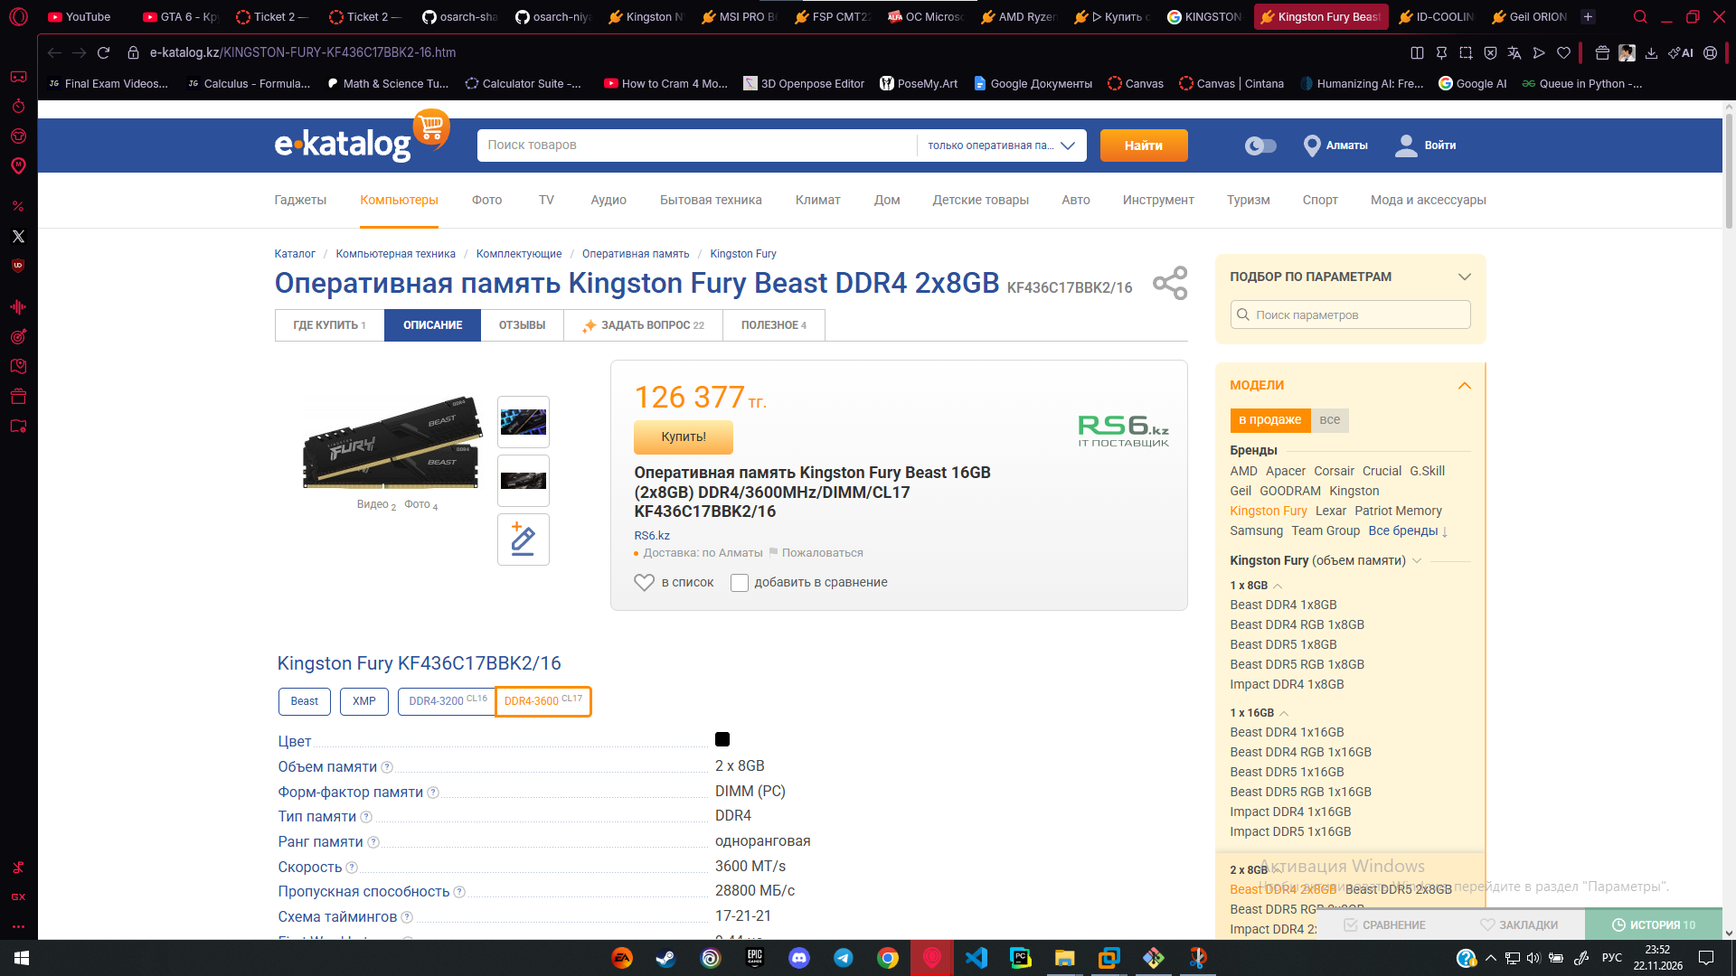
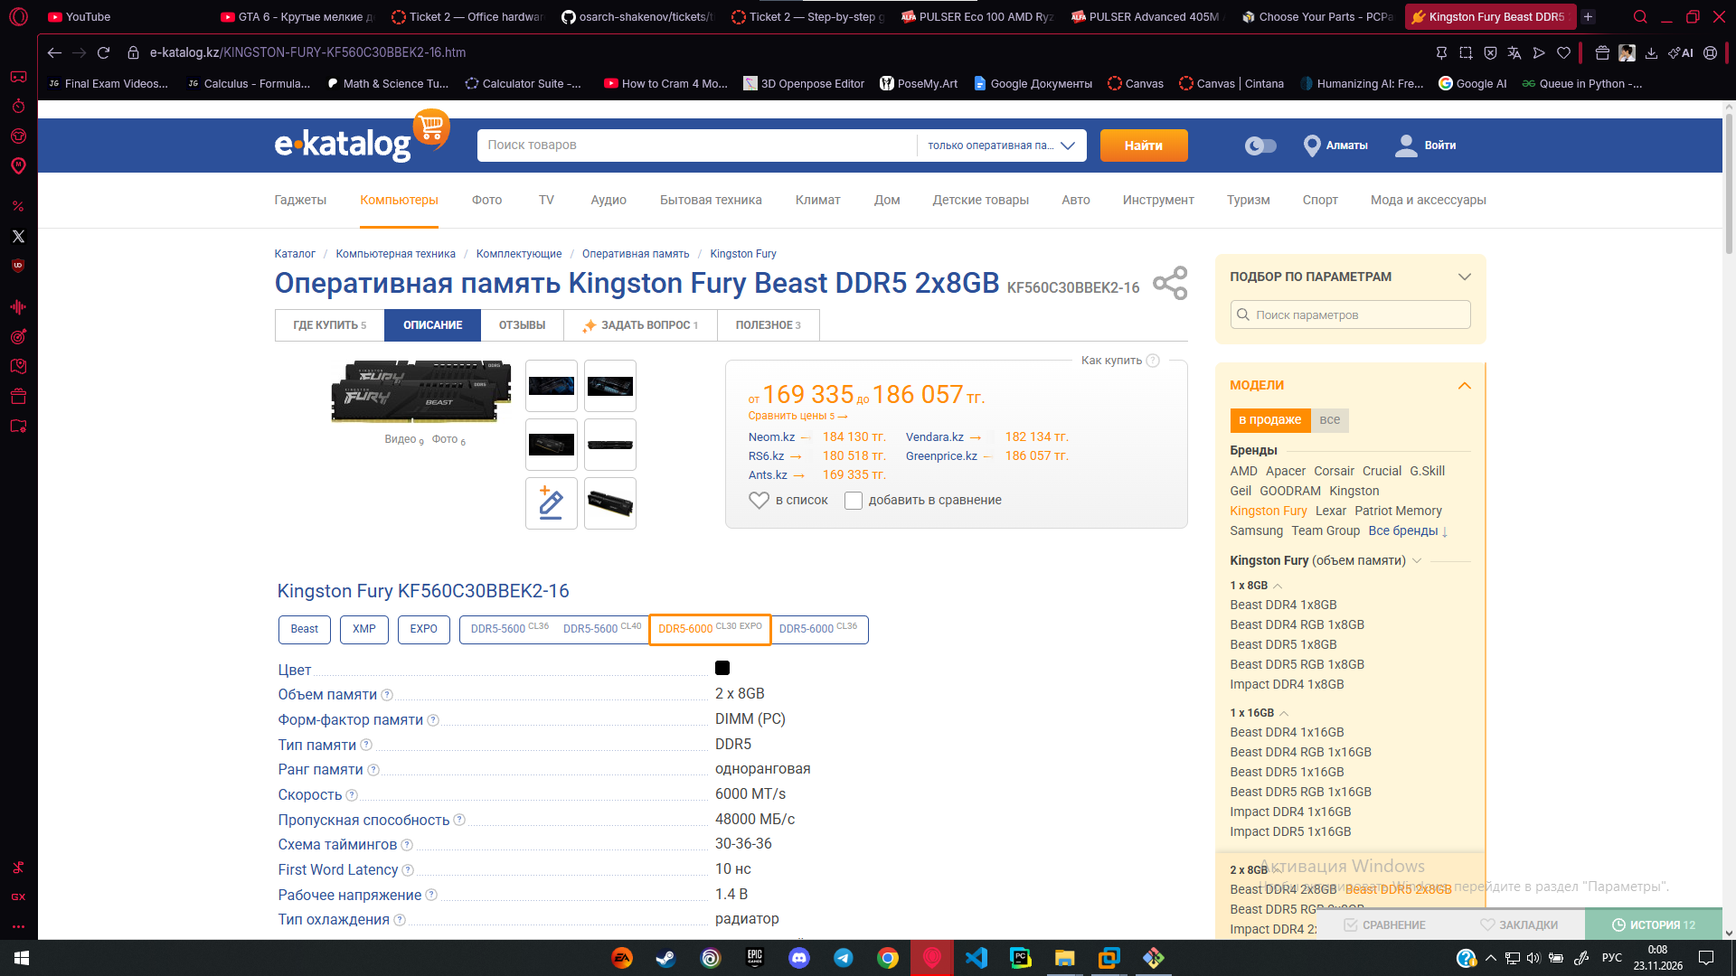
ticket 2 final

diff --git a/tickets/ticket2-office-spec/README.md b/tickets/ticket2-office-spec/README.md
@@ -42,38 +42,37 @@ One identical machine would be too weak for the developer and designer, and wast
 2. Checked compatibility as in Lab 3: CPU socket and board socket, memory type, M.2 slot and NVMe SSD, total power and power supply. PCPartPicker was used only for compatibility and power. It does not price in tenge.
 3. Took every price in tenge from a Kazakhstan vendor listing (mostly Flexcom.kz, found through the e-katalog.kz and alfa.kz price pages), with the date, and saved a dated screenshot (see [budget.csv](budget.csv)).
 4. Every machine has at least 16 GB memory, a 1 TB SSD, a licensed operating system and a monitor.
-5. The biggest finding was the price of memory: a 32 GB DDR5 kit (from 332 235 KZT) cost more than three Ryzen 5 7600 on the day I checked, so memory decisions decided the budget. The prices moved while I worked: my first 32 GB price was 230 168 KZT, and I had to rebuild the budget around the new one. The margin left is only 87 220 KZT.
+5. The biggest finding was the price of memory: a 32 GB DDR5 kit (from 289 119 KZT, Kingston from 332 235) cost almost three Ryzen 5 7600 on the day I checked, so memory decisions decided the budget. The prices moved while I worked: my first 32 GB price was 230 168 KZT, and I had to rebuild the budget around the new one. The margin left is only 87 536 KZT.
 
 **Totals (from budget.csv, prices taken 2026-11-22)**
 
 | Role | Total, KZT |
 |---|---|
-| Accountant | 556 841 |
-| Sales | 541 235 |
-| Web developer | 802 161 |
-| Designer | 1 012 543 |
-| **Grand total** | **2 912 780 (budget 3 000 000, margin 87 220)** |
+| Accountant | 599 799 |
+| Sales | 584 193 |
+| Web developer | 759 045 |
+| Designer | 969 427 |
+| **Grand total** | **2 912 464 (budget 3 000 000, margin 87 536)** |
 
 ### Answer 1: which machine do I upgrade first, in 18 months?
 
-Web developer, the memory. The board has four memory slots and only two are used, so I can add a second 2 x 16 GB kit and reach 64 GB without throwing anything away (a 32 GB kit now costs 332 235 KZT or more, so adding a second kit later is a real cost, but it needs no new board or CPU). Containers, virtual machines and a local database are the load that grows fastest, and on this machine memory is the first resource to run out. The AM5 platform and DDR5 chosen in section 2 are what make this a simple add-on.
+Web developer, the memory. The board has four memory slots and only two are used, so I can add a second 2 x 16 GB kit and reach 64 GB without throwing anything away (a 32 GB kit now costs 289 119 KZT or more, so adding a second kit later is a real cost, but it needs no new board or CPU). Containers, virtual machines and a local database are the load that grows fastest, and on this machine memory is the first resource to run out. The AM5 platform and DDR5 chosen in section 2 are what make this a simple add-on.
 
 ### Answer 2: the same four as pre-built machines
 
-I could not get verified pre-built prices for four comparable machines on 2026-11-22: the Kazakhstan vendor pages I could reach showed either gaming machines with a different part mix or prices I could not confirm, and I will not put a made-up number in the table. The comparison below is therefore about what changes, not about the exact price gap.
+I priced the closest pre-built systems from alfa.kz (Almaty marketplace, delivery in Almaty). Prices seen on 2026-11-22. A pre-built listing has no monitor and the operating system is not stated, so I added the same monitor and Windows 11 Pro that I used in my builds, to compare like with like.
 
-What the company gains by buying pre-built: one seller who tests and delivers the machine, a single warranty and support contact for the whole computer, and no assembly time for me (four machines by hand is hours of work).
-What it loses: choice of parts and the upgrade path. The pre-built listing I looked at on alfa.kz (item 8583273) had one 16 GB memory module (single channel, so no dual-channel memory), an entry-level A620 board and a graphics card nobody asked for, which is a typical way pre-builts save money in the wrong place for an office. It also loses control over which licensed Windows is included and whether the monitor is included.
-**Pre-built prices (fill in from the vendor page, same day, with a screenshot named prebuilt-*.png):**
+| Role | Pre-built model (alfa.kz) | Pre-built, KZT | + monitor + Windows 11 Pro, KZT | Built by me (budget.csv), KZT | Date | Link |
+|---|---|---|---|---|---|---|
+| Accountant | PULSER Eco 100, Ryzen 5 5600GT, DDR4 16 GB, SSD 1 TB | 235 107 | 389 966 | 599 799 | 2026-11-22 | https://alfa.kz/pc/computers/amd/ryzen_5/pulser/8539143 |
+| Sales | same PULSER Eco 100 (16 GB, the cheapest suitable one) | 235 107 | 374 360 | 584 193 | 2026-11-22 | https://alfa.kz/pc/computers/amd/ryzen_5/pulser/8539143 |
+| Web developer | PULSER Advanced 405M, Ryzen 5 7500F, DDR5 32 GB, SSD 1 TB, RTX 5060 | 1 027 500 | 1 226 612 | 759 045 | 2026-11-22 | https://alfa.kz/pc/computers/amd/ryzen_5/pulser/8682058 |
+| Designer | same PULSER Advanced 405M (RTX 5060 8 GB) | 1 027 500 | 1 246 233 | 969 427 | 2026-11-22 | https://alfa.kz/pc/computers/amd/ryzen_5/pulser/8682058 |
 
-| Role | Pre-built model (vendor) | Price, KZT | Date | Link | Built-by-me price (budget.csv) |
-|---|---|---|---|---|---|
-| Accountant | TODO | TODO | 2026-11-22 | TODO | 556 841 |
-| Sales | TODO | TODO | 2026-11-22 | TODO | 541 235 |
-| Web developer | TODO | TODO | 2026-11-22 | TODO | 802 161 |
-| Designer | TODO | TODO | 2026-11-22 | TODO | 1 012 543 |
+Sum of the four pre-built options with monitors and Windows: 3 237 171 KZT, over the 3 000 000 budget, against 2 912 464 for my builds. Note that I found no pre-built with 32 GB and no graphics card, so for the developer the pre-built pays for a GPU that is not needed.
 
-The price difference is the one thing the text above does not answer. The exact quote must be added from a vendor listing with a date before this report can be called complete.
+**What the company gains by buying pre-built:** one seller who tests and delivers the machine, one warranty and support contact for the whole computer, and no assembly time (four machines by hand is hours of work). For the two cheap roles the pre-built is cheaper: it is an older platform (AM4, DDR4), so the saving comes from a platform without an upgrade path.
+**What it loses:** choice of parts and the upgrade path (the cheap office machines are AM4 with DDR4, so a later CPU or memory upgrade means a new board). The expensive ones include a graphics card that the developer does not need, which makes them more expensive than my builds. The seller also chooses the power supply, the case and the memory brand, and the listing does not say whether Windows is included.
 
 ### Answer 3: who complains about performance within a month, and about what?
 
@@ -91,5 +90,5 @@ The designer, about large files and video. I put the money into the monitor and 
 
 ## 5. What I would do differently
 
-I would check the price of the most expensive part first. I picked the platform and the roles, and only later found that a 32 GB DDR5 kit costs more than twice the CPU, which forced me to redo the trade-offs and left a margin of only 87 220 KZT. Next time I would look up memory, SSD and GPU prices before choosing anything else.
+I would check the price of the most expensive part first. I picked the platform and the roles, and only later found that a 32 GB DDR5 kit costs more than twice the CPU, which forced me to redo the trade-offs and left a margin of only 87 536 KZT. Next time I would look up memory, SSD and GPU prices before choosing anything else.
 I would also record each price at the moment I see it, with a screenshot and the vendor name. The same Ryzen 5 7600 appeared at two different prices in two listings, and for the Ryzen 7 7700 BOX I only had the lowest of five offers and not the name of the shop, which I had to leave to be checked.

diff --git a/tickets/ticket2-office-spec/builds.md b/tickets/ticket2-office-spec/builds.md
@@ -7,7 +7,7 @@
 Every machine has: at least 16 GB memory, a 1 TB NVMe SSD, a licensed Windows 11 Pro and one monitor.
 Compatibility checked as in Lab 3: CPU socket and board socket (AM5), board memory type (DDR5), M.2 slot and NVMe SSD, total power and power supply. See [evidence/pcpartpicker-links.md](evidence/pcpartpicker-links.md).
 
-**Price finding that shaped every build:** on the day I checked, a 32 GB DDR5 kit (from 332 235 KZT) cost more than three Ryzen 5 7600 (99 927 KZT), and 16 GB (126 377 KZT) was already more than the CPU. The 32 GB price rose from 230 168 during the work, which is why the sales machine has 16 GB. Memory is the most expensive part of the machine, so every decision about memory is a decision about money.
+**Price finding that shaped every build:** on the day I checked, a 32 GB DDR5 kit (from 289 119 KZT) cost almost three Ryzen 5 7600 (99 927 KZT), and 16 GB (169 335 KZT) was already more than the CPU. The Kingston 32 GB price rose from 230 168 to 332 235 during the work; the developer and designer use a cheaper Apacer kit and the sales machine has 16 GB. Memory is the most expensive part of the machine, so every decision about memory is a decision about money.
 
 ## Build 1: accountant
 
@@ -15,25 +15,25 @@ Compatibility checked as in Lab 3: CPU socket and board socket (AM5), board memo
 
 **Bottleneck:** not the CPU or GPU, they idle. What fails here is reliability and the screen: a crash loses a day of work, and eight hours of reading numbers needs a comfortable IPS monitor and a backup.
 
-**Trade-off:** Ryzen 5 7600 with integrated graphics (no graphics card) and 16 GB instead of 32 GB. 32 GB would cost about 206 000 KZT more and this load does not use it. I kept a decent IPS monitor instead of the cheapest one.
+**Trade-off:** Ryzen 5 7600 with integrated graphics (no graphics card) and 16 GB instead of 32 GB. 32 GB would cost about 120 000 KZT more and this load does not use it. I kept a decent IPS monitor instead of the cheapest one.
 **Alternative not taken:** 8 GB of memory. Rejected, the hard requirement is 16 GB, and Windows plus accounting software plus Excel would swap on 8 GB.
 
 **Parts:** Ryzen 5 7600 BOX, MSI PRO B650M-P, 16 GB DDR5-6000 (2 x 8 GB), Kingston NV3 1 TB, MSI MAG A550BN 550 W, FSP CMT223S case, LG 24MR400-B 23.8 inch IPS, Windows 11 Pro.
 **Power check:** estimate about 100 to 150 W under load, so a 550 W unit has a large margin.
-**Total:** 556 841 KZT (budget.csv, accountant rows)
+**Total:** 599 799 KZT (budget.csv, accountant rows)
 
 ## Build 2: sales manager
 
 **Load:** CRM in the browser, 20 to 30 tabs, Excel, several hours of video calls a day, often all at once (estimate).
 
-**Bottleneck:** memory. Browser tabs plus a video call plus Excel can use around 10 GB or more (estimate), and on 16 GB the margin is small. The money for 32 GB was gone once the 32 GB kit passed 330 000 KZT. When memory runs out the machine starts swapping, and that happens in the middle of a customer call. The CPU is mostly idle.
+**Bottleneck:** memory. Browser tabs plus a video call plus Excel can use around 10 GB or more (estimate), and on 16 GB the margin is small. A 32 GB kit costs about 120 000 KZT more than 16 GB, which the budget could not take. When memory runs out the machine starts swapping, and that happens in the middle of a customer call. The CPU is mostly idle.
 
-**Trade-off:** same Ryzen 5 7600 as the accountant and 16 GB (2 x 8 GB). 32 GB would cost about 206 000 KZT more at today's price, so I accepted a small memory margin and saved on the monitor: a 23.8 inch Philips at 36 594 KZT. The board keeps 2 free slots, so memory can be added later.
+**Trade-off:** same Ryzen 5 7600 as the accountant and 16 GB (2 x 8 GB). 32 GB would cost about 120 000 KZT more at today's price, so I accepted a small memory margin and saved on the monitor: a 23.8 inch Philips at 36 594 KZT. The board keeps 2 free slots, so memory can be added later.
 **Alternative not taken:** 32 GB. Rejected on price. A Ryzen 7 with 16 GB was also rejected: the CPU would not be the problem, memory would.
 
 **Parts:** Ryzen 5 7600 BOX, MSI PRO B650M-P, 16 GB DDR5-6000 (2 x 8 GB), Kingston NV3 1 TB, MSI MAG A550BN 550 W, FSP CMT223S case, Philips 24E2N1110 23.8 inch IPS, Windows 11 Pro. A webcam and headset are not included (see README, section 2).
 **Power check:** estimate about 100 to 150 W.
-**Total:** 541 235 KZT (budget.csv, sales rows)
+**Total:** 584 193 KZT (budget.csv, sales rows)
 
 ## Build 3: web developer
 
@@ -44,9 +44,9 @@ Compatibility checked as in Lab 3: CPU socket and board socket (AM5), board memo
 **Trade-off:** Ryzen 7 7700 OEM without cooler (8 cores for builds and VMs; a separate AM5 cooler is added), 32 GB of memory in 2 of 4 slots so it can grow to 64 GB later, and a 27 inch QHD monitor for more screen space. I accepted no graphics card, because the developer does not need a GPU.
 **Alternative not taken:** a Ryzen 9. Rejected, it costs much more and the extra cores would be used only a small part of the day. I also considered Ubuntu instead of Windows to save the licence (107 779 KZT), but the company may need Windows-only tools, so Windows 11 Pro with WSL2 is the safer choice (confirm this in your own words).
 
-**Parts:** Ryzen 7 7700 OEM + ID-COOLING SE-802-SD cooler, MSI PRO B650M-P, 32 GB DDR5-6000 (2 x 16 GB), Kingston NV3 1 TB, MSI MAG A550BN 550 W, FSP CMT223S case, Iiyama ProLite XB2797QSU-B1 27 inch QHD IPS, Windows 11 Pro.
+**Parts:** Ryzen 7 7700 OEM + ID-COOLING SE-802-SD cooler, MSI PRO B650M-P, 32 GB DDR5-5200 (2 x 16 GB, Apacer Panther), Kingston NV3 1 TB, MSI MAG A550BN 550 W, FSP CMT223S case, Iiyama ProLite XB2797QSU-B1 27 inch QHD IPS, Windows 11 Pro.
 **Power check:** estimate about 150 to 200 W.
-**Total:** 802 161 KZT (budget.csv, web developer rows)
+**Total:** 759 045 KZT (budget.csv, web developer rows)
 
 ## Build 4: designer
 
@@ -57,18 +57,18 @@ Compatibility checked as in Lab 3: CPU socket and board socket (AM5), board memo
 **Trade-off:** the budget goes to a 27 inch QHD IPS monitor with 99% sRGB (116 074 KZT) and a GeForce RTX 5060 8 GB (189 832 KZT). The CPU is a Ryzen 7 7700 and not a faster one, the SSD is 1 TB, the minimum, and the monitor is not a calibrated professional model with wide gamut. The other three machines get less so this one can have a GPU.
 **Alternative not taken:** a cheaper monitor with a stronger graphics card. Rejected: a fast card on a screen with wrong colours gives fast but wrong results.
 
-**Parts:** Ryzen 7 7700 OEM + ID-COOLING SE-802-SD cooler, MSI PRO B650M-P, 32 GB DDR5-6000 (2 x 16 GB), Kingston NV3 1 TB, INNO3D RTX 5060 Twin X2 8 GB, PCCooler YK650 650 W, FSP CMT223S case, ASUS BE27AQ 27 inch QHD IPS, Windows 11 Pro.
+**Parts:** Ryzen 7 7700 OEM + ID-COOLING SE-802-SD cooler, MSI PRO B650M-P, 32 GB DDR5-5200 (2 x 16 GB, Apacer Panther), Kingston NV3 1 TB, INNO3D RTX 5060 Twin X2 8 GB, PCCooler YK650 650 W, FSP CMT223S case, ASUS BE27AQ 27 inch QHD IPS, Windows 11 Pro.
 **Power check:** estimate about 250 to 350 W with the graphics card; the card maker recommends a 550 W unit, so 650 W has a margin.
-**Total:** 1 012 543 KZT (budget.csv, designer rows)
+**Total:** 969 427 KZT (budget.csv, designer rows)
 
 ## Grand total
 
 | Build | Total, KZT |
 |---|---|
-| Accountant | 556 841 |
-| Sales | 541 235 |
-| Web developer | 802 161 |
-| Designer | 1 012 543 |
-| **Grand total** | **2 912 780 (budget 3 000 000, margin 87 220)** |
+| Accountant | 599 799 |
+| Sales | 584 193 |
+| Web developer | 759 045 |
+| Designer | 969 427 |
+| **Grand total** | **2 912 464 (budget 3 000 000, margin 87 536)** |
 
-The margin is only 87 220 KZT, about 2.9% of the budget. It covers no keyboards, mice, UPS or cables.
+The margin is only 87 536 KZT, about 2.9% of the budget. It covers no keyboards, mice, UPS or cables.

diff --git a/tickets/ticket2-office-spec/evidence/vendor-quotes/price-log.md b/tickets/ticket2-office-spec/evidence/vendor-quotes/price-log.md
@@ -1,23 +1,24 @@
 # Price log
 
-**What this file proves:** every price in [../../budget.csv](../../budget.csv) came from a Kazakhstan vendor listing (vendor named in each row), and which page it was read from. It is a text record, not a screenshot: the prices were read from the web pages listed below on 2026-11-22.
+**What this file proves:** every price in [../../budget.csv](../../budget.csv) came from a Kazakhstan vendor listing (e-katalog.kz offers, alfa.kz), read on 2026-11-22 (screenshots taken after midnight show 2026-11-23, prices unchanged). It is a text record generated from budget.csv; screenshots are in this folder.
 
-| Part | Vendor | Price, KZT | Page |
-|---|---|---|---|
-| Ryzen 5 7600 BOX | LS Computers (alfa.kz) | 99 927 | https://alfa.kz/parts/cpu/amd/ryzen_5/8277796 |
-| Ryzen 7 7700 BOX | cheapest of 5 offers, shop not identified | 157 705 | https://e-katalog.kz/AMD-7700-MPK.htm |
-| MSI PRO B650M-P | Greenprice.kz | 59 366 | https://e-katalog.kz/MSI-PRO-B650M-P.htm |
-| Kingston FURY Beast 2x8 GB DDR5-6000 | Flexcom.kz | 153 237 | https://e-katalog.kz/KINGSTON-FURY-KF560C36BBEK2-16.htm |
-| Kingston FURY Beast 2x16 GB DDR5-6000 | Flexcom.kz | 230 168 | https://e-katalog.kz/KINGSTON-FURY-KF560C36BBE2K2-32.htm |
-| Kingston NV3 1 TB | Flexcom.kz | 70 931 | https://e-katalog.kz/KINGSTON-NV3.htm |
-| MSI MAG A550BN 550 W | Flexcom.kz | 19 698 | https://e-katalog.kz/MSI-A550BN.htm |
-| PCCooler YK650 650 W | Flexcom.kz | 20 627 | https://e-katalog.kz/PCCOOLER-YK.htm |
-| FSP CMT223S case | Flexcom.kz | 19 572 | https://e-katalog.kz/FSP-CMT223S.htm |
-| INNO3D RTX 5060 Twin X2 8 GB | Flexcom.kz | 189 832 | https://e-katalog.kz/INNO3D-GEFORCE-RTX-5060-TWIN-X2.htm |
-| LG 24MR400-B | Forcecom.kz | 52 200 | https://e-katalog.kz/LG-24MR400.htm |
-| Philips 24E2N1110 | Flexcom.kz | 36 594 | https://e-katalog.kz/PHILIPS-24E2N1110.htm |
-| Iiyama XB2797QSU-B1 | Flexcom.kz | 96 453 | https://e-katalog.kz/IIYAMA-PROLITE-XB2797QSU-B1.htm |
-| ASUS BE27AQ | Flexcom.kz | 116 074 | https://e-katalog.kz/ASUS-BE27AQ.htm |
-| Windows 11 Pro FQC-10572 (ESD) | alfa.kz seller | 107 779 | https://alfa.kz/pc/soft/os/microsoft/all/7651173 |
+| Part | Price, KZT | Page |
+|---|---|---|
+| CPU: AMD Ryzen 5 7600 BOX (LS Computers via alfa.kz) | 99 927 | https://alfa.kz/parts/cpu/amd/ryzen_5/8277796 |
+| Motherboard: MSI PRO B650M-P mATX AM5 DDR5 (lowest e-katalog.kz offer, shop: see screenshot) | 61 990 | https://e-katalog.kz/MSI-PRO-B650M-P.htm |
+| Memory: Kingston FURY Beast 2x8 GB DDR5-6000 CL30 KF560C30BBEK2-16 (Ants.kz, lowest of 5 offers) | 169 335 | https://e-katalog.kz/KINGSTON-FURY-KF560C30BBEK2-16.htm |
+| SSD: Kingston NV3 1 TB NVMe SNV3S/1000G (lowest e-katalog.kz offer, shop: see screenshot) | 74 457 | https://e-katalog.kz/KINGSTON-NV3.htm |
+| Power supply: MSI MAG A550BN 550 W 80+ Bronze (Flexcom.kz) | 19 698 | https://e-katalog.kz/MSI-A550BN.htm |
+| Case: FSP CMT223S ATX mid tower no PSU (lowest e-katalog.kz offer, shop: see screenshot) | 19 533 | https://e-katalog.kz/FSP-CMT223S.htm |
+| Monitor: LG 24MR400-B 23.8 inch IPS 100 Hz (Forcecom.kz) | 52 200 | https://e-katalog.kz/LG-24MR400.htm |
+| Operating system: Microsoft Windows 11 Pro FQC-10572 ESD licence (alfa.kz) | 102 659 | https://alfa.kz/pc/soft/os/microsoft/all/7651173 |
+| Monitor: Philips 24E2N1110 23.8 inch IPS 120 Hz (Flexcom.kz) | 36 594 | https://e-katalog.kz/PHILIPS-24E2N1110.htm |
+| CPU: AMD Ryzen 7 7700 OEM, no cooler (lowest e-katalog.kz offer, shop: see screenshot) | 91 726 | https://e-katalog.kz/AMD-7700-OEM.htm |
+| CPU cooler: ID-COOLING SE-802-SD (needed: OEM CPU has no cooler) | 3 410 | https://e-katalog.kz/ID-COOLING-SE-802-SD.htm |
+| Memory: Apacer Panther DDR5-5200 2x16 GB AH5U32G52C5227BAA-2 (Ants.kz, lowest of 2 offers) | 289 119 | https://e-katalog.kz/APACER-AH5U32G52C5227BAA-2.htm |
+| Monitor: Iiyama ProLite XB2797QSU-B1 27 inch QHD IPS (Flexcom.kz) | 96 453 | https://e-katalog.kz/IIYAMA-PROLITE-XB2797QSU-B1.htm |
+| Graphics card: INNO3D GeForce RTX 5060 Twin X2 8 GB (Flexcom.kz) | 189 832 | https://e-katalog.kz/INNO3D-GEFORCE-RTX-5060-TWIN-X2.htm |
+| Power supply: PCCooler YK650 650 W 80+ Bronze (Flexcom.kz) | 20 627 | https://e-katalog.kz/PCCOOLER-YK.htm |
+| Monitor: ASUS BE27AQ 27 inch QHD IPS 99% sRGB (Flexcom.kz) | 116 074 | https://e-katalog.kz/ASUS-BE27AQ.htm |
 
-**Known weak points:** the e-katalog.kz and alfa.kz pages are price aggregators and marketplaces; the vendor's own product page is one click away from each. The Ryzen 5 7600 BOX was shown at 95 104 and at 101 790 in two different listings (the table uses 99 927 from alfa.kz). The Windows 11 Pro listing was last updated on 28 July.
+**Known weak points:** e-katalog.kz and alfa.kz are price aggregators; several prices are the lowest offer on the page (shop named in the screenshot). Memory prices rose during the work: 32 GB DDR5 Kingston went from 230 168 to 332 235 KZT, so the web developer and designer got a cheaper Apacer kit, and the sales and accountant machines have 16 GB. The 7700 is the OEM version without a cooler, so a cooler was added. Pre-built prices are in README, Answer 2.

diff --git a/tickets/ticket2-office-spec/evidence/pcpartpicker-links.md b/tickets/ticket2-office-spec/evidence/pcpartpicker-links.md
@@ -9,14 +9,13 @@
 | M.2 NVMe SSD | Kingston NV3 (M.2 2280, PCIe 4.0) in board M.2 slot: OK | OK | OK | OK |
 | Board in case | mATX board in ATX mid tower: OK | OK | OK | OK |
 | Display output | CPU has integrated graphics, board has video outputs: monitor connects to the board | same | same | graphics card used |
-| Estimated draw | 100 to 150 W | 100 to 150 W | 150 to 200 W | 250 to 350 W |
+| Estimated draw (PCPartPicker) | 149 W | 149 W | 170 W | 315 W |
 | Power supply | 550 W | 550 W | 550 W | 650 W (the RTX 5060 page recommends at least 550 W) |
 
-**PCPartPicker share links:** TODO, one per build (pcpartpicker.com, Builder, Save, copy the link). The links could not be created from here.
+**PCPartPicker share links.** PCPartPicker does not price in tenge, so its dollar prices are ignored here. It was used only for the compatibility check and the power estimate. Differences from the real builds are listed in the last column: PCPartPicker does not have every part sold in Kazakhstan, and the operating system and the monitor are priced in budget.csv, not in the lists.
 
-| Build | PCPartPicker link | Warnings shown |
-|---|---|---|
-| Accountant | TODO | TODO |
-| Sales | TODO | TODO |
-| Web developer | TODO | TODO |
-| Designer | TODO | TODO |
+| Build | PCPartPicker link | Estimated wattage | Warnings shown | Differences from the real build |
+|---|---|---|---|---|
+| Accountant and sales (same parts) | https://pcpartpicker.com/list/xpy3sK | 149 W | none (only the standard note that some physical constraints, such as cooler clearance, are not checked) | Memory: Kingston FURY Beast RGB 16 GB DDR5-6000 CL36 instead of the non-RGB CL30 kit (same type, DDR5 2 x 8 GB). Case: FSP CMT260 instead of FSP CMT223S, which is not in the database (both ATX mid tower). |
+| Web developer | https://pcpartpicker.com/list/WKy3sK | 170 W | none (only the standard disclaimer about physical constraints). The cooler mount shows AM5, so the ID-COOLING SE-802-SD V3 fits this socket. | Memory: Apacer Panther RGB 32 GB DDR5-5200 CL38 instead of the non-RGB Panther. Case: FSP CMT260 instead of CMT223S (not in the database). |
+| Designer | https://pcpartpicker.com/list/fwTqw3 | 315 W | none (only the standard disclaimer about physical constraints). The graphics card power connector is matched by the power supply. | Graphics card: Inno3D Twin X2 OC RTX 5060 8 GB (the build uses the non-OC Twin X2, same chip and memory). Power supply: MSI MAG A650BN 650 W instead of PCCooler YK650 650 W (not in the database, same class). Memory: Apacer Panther RGB instead of non-RGB. Case: FSP CMT260 instead of CMT223S. |
